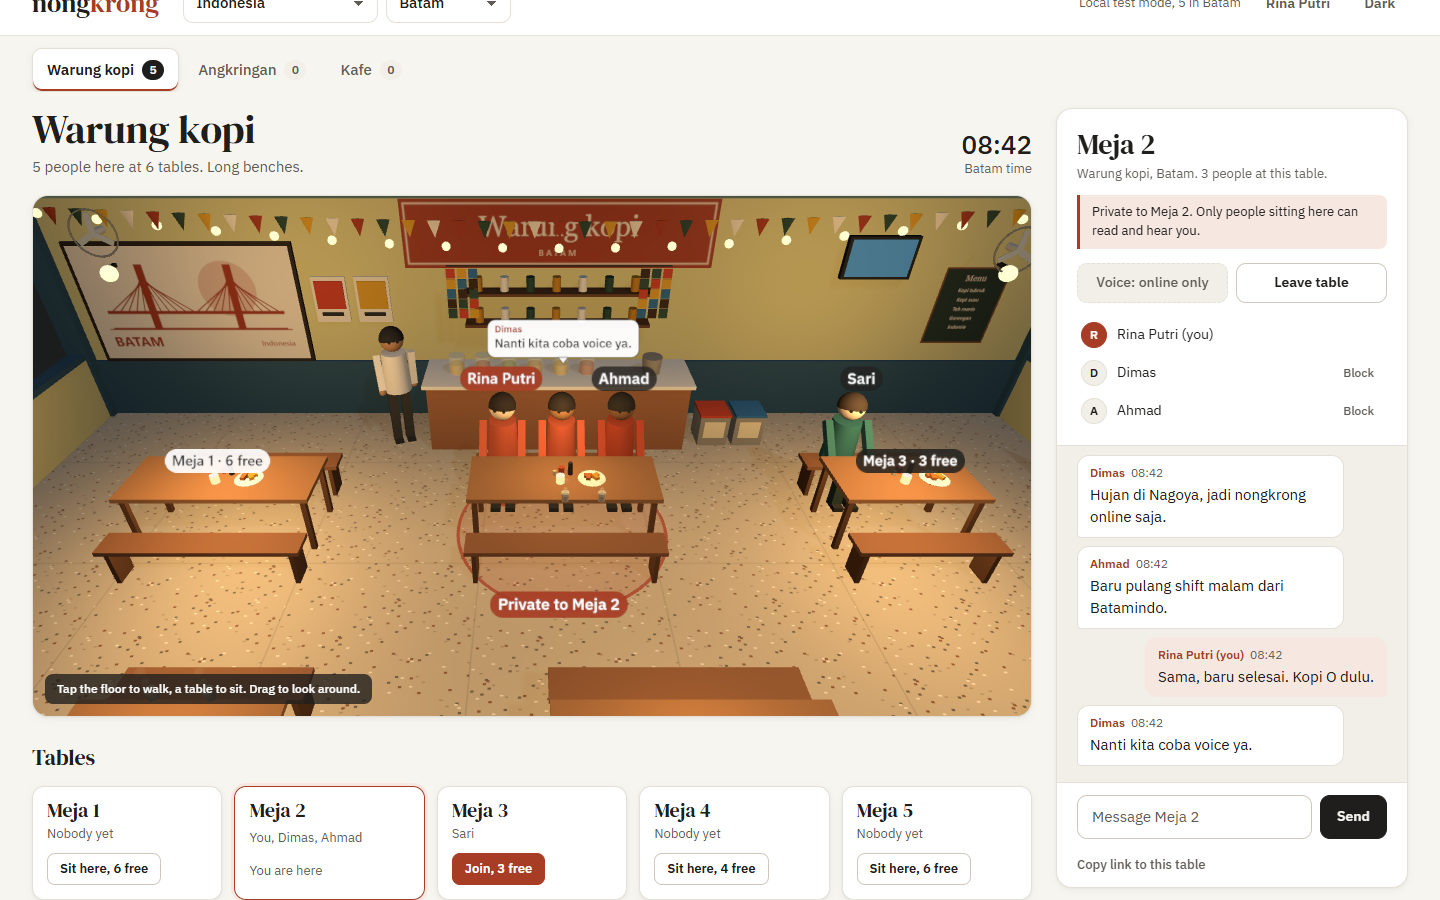
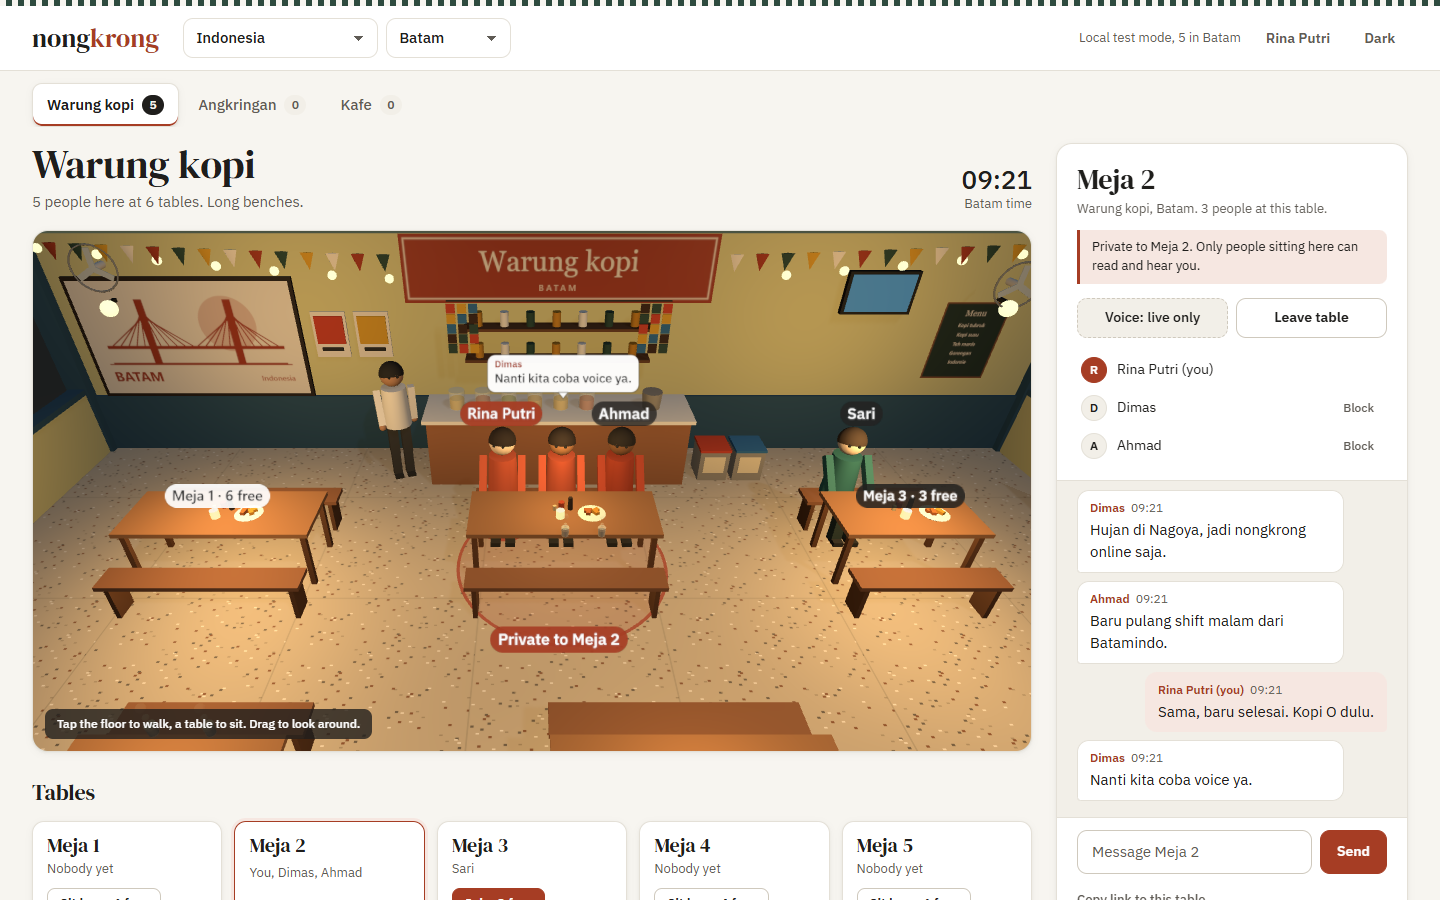
Phone shows only your table and busy tables, one primary button colour, shorter voice label, bubbles keep clear of the top edge, charcoal floor for the timber branch

diff --git a/app.css b/app.css
@@ -90,7 +90,7 @@ button, input, select { font: inherit; color: inherit; }
 .btn.ghost:hover { color: var(--ink); background: var(--sunk); }
 .btn.wide { width: 100%; }
 .btn:disabled { cursor: not-allowed; }
-#voiceBtn:disabled { color: var(--muted); background: var(--sunk); border-color: var(--line); }
+#voiceBtn:disabled { color: var(--ink); background: var(--sunk); border-color: var(--line-strong); }
 .link { background: none; border: 0; color: var(--muted); cursor: pointer; padding: 12px 20px; text-align: left; min-height: 44px; font-size: 13px; font-weight: 500; }
 .link:hover { color: var(--ink); text-decoration: underline; }
 
@@ -246,7 +246,7 @@ main.has-world .go-title { display: block; font-size: 22px; margin: 0 0 12px; }
 .say { display: flex; gap: 8px; padding: 12px 20px 4px; border-top: 1px solid var(--line); background: var(--card); }
 .say input { flex: 1; min-width: 0; border: 1px solid var(--line-strong); border-radius: 10px; padding: 10px 14px; min-height: 44px; background: var(--card); }
 .say input::placeholder { color: var(--muted); }
-.say .btn { background: var(--ink); border-color: var(--ink); color: var(--bg); }
+.say .btn { background: var(--accent); border-color: var(--accent); color: var(--accent-ink); }
 
 /* ---------- dialog ---------- */
 dialog { border: 1px solid var(--line); border-radius: 16px; padding: 0; background: var(--card); color: var(--ink); width: min(480px, calc(100vw - 32px)); box-shadow: 0 24px 60px rgba(31, 30, 28, .18); }

diff --git a/app.js b/app.js
@@ -752,7 +752,7 @@ function renderPanel() {
   $("#tablePrivate").textContent = `Private to ${table}. Only people sitting here can read and hear you.`;
 
   const voiceBtn = $("#voiceBtn");
-  voiceBtn.textContent = LOCAL ? "Voice: online only" : state.voice.on ? "Turn off voice" : "Turn on voice";
+  voiceBtn.textContent = LOCAL ? "Voice: live only" : state.voice.on ? "Turn off voice" : "Turn on voice";
   voiceBtn.className = LOCAL ? "btn note" : state.voice.on ? "btn on" : "btn primary";
   voiceBtn.disabled = LOCAL;
   voiceBtn.setAttribute("aria-pressed", String(state.voice.on));
